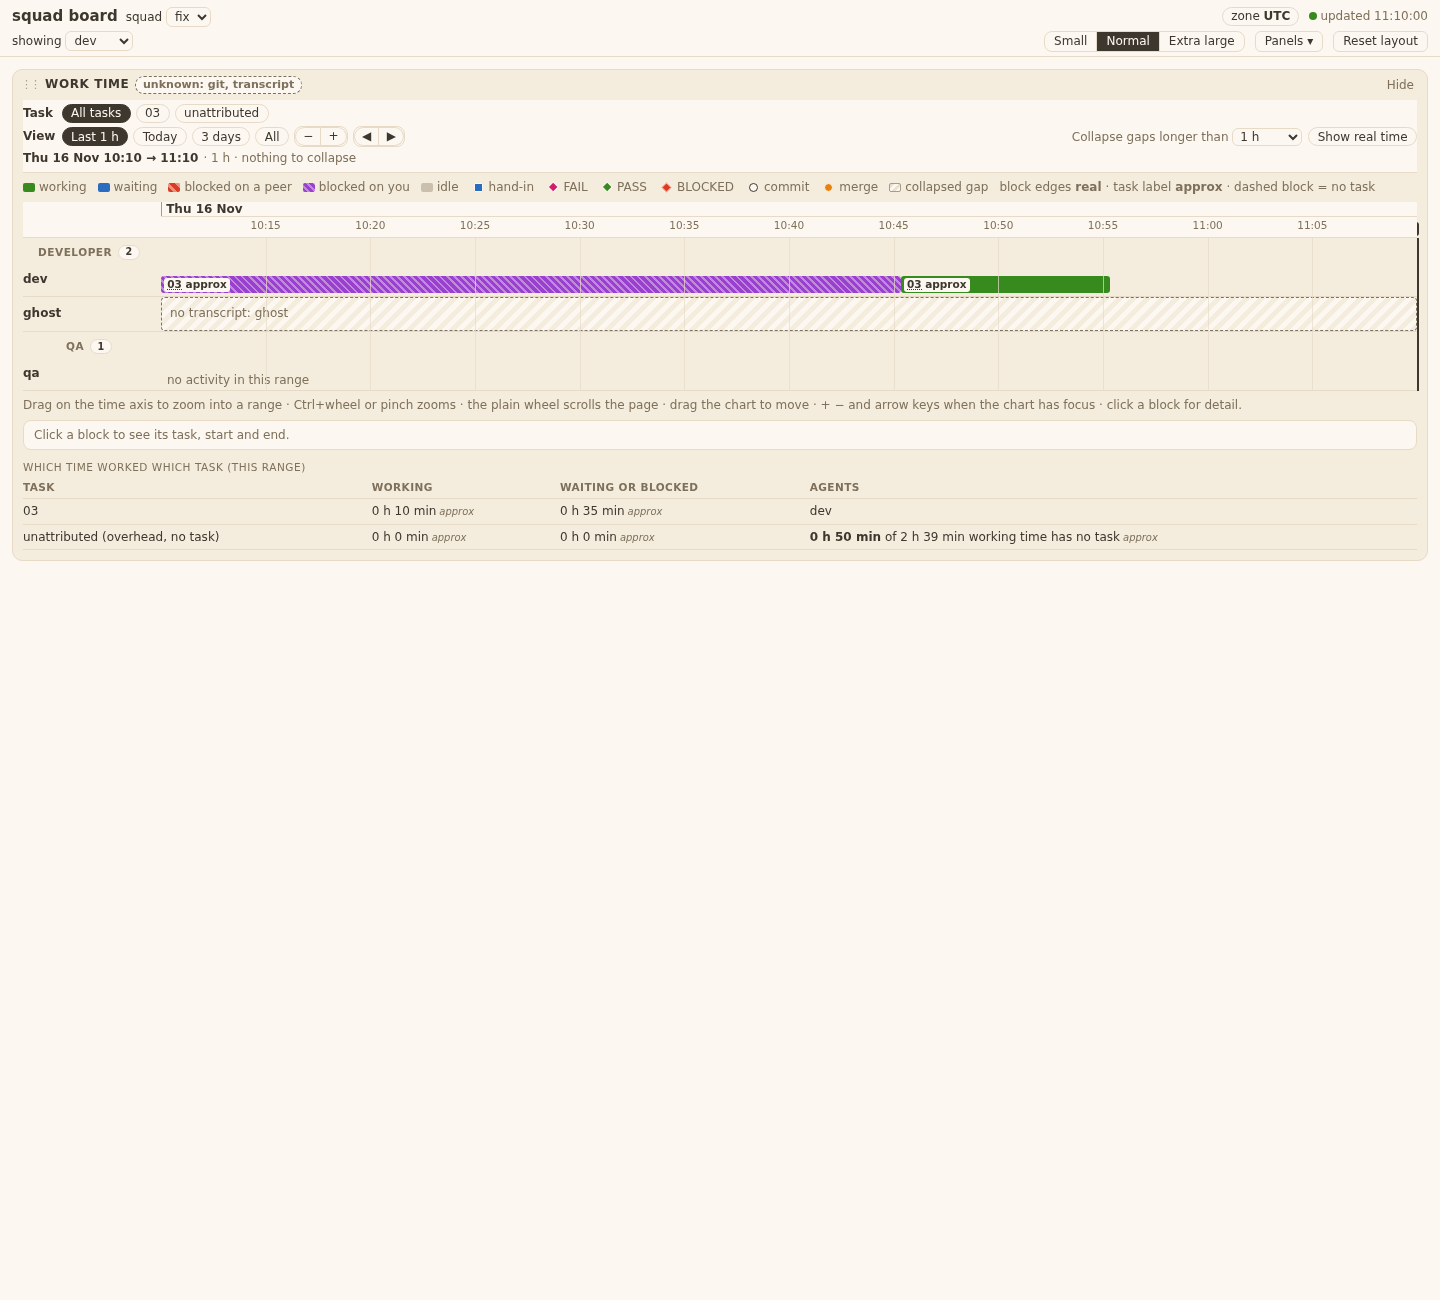
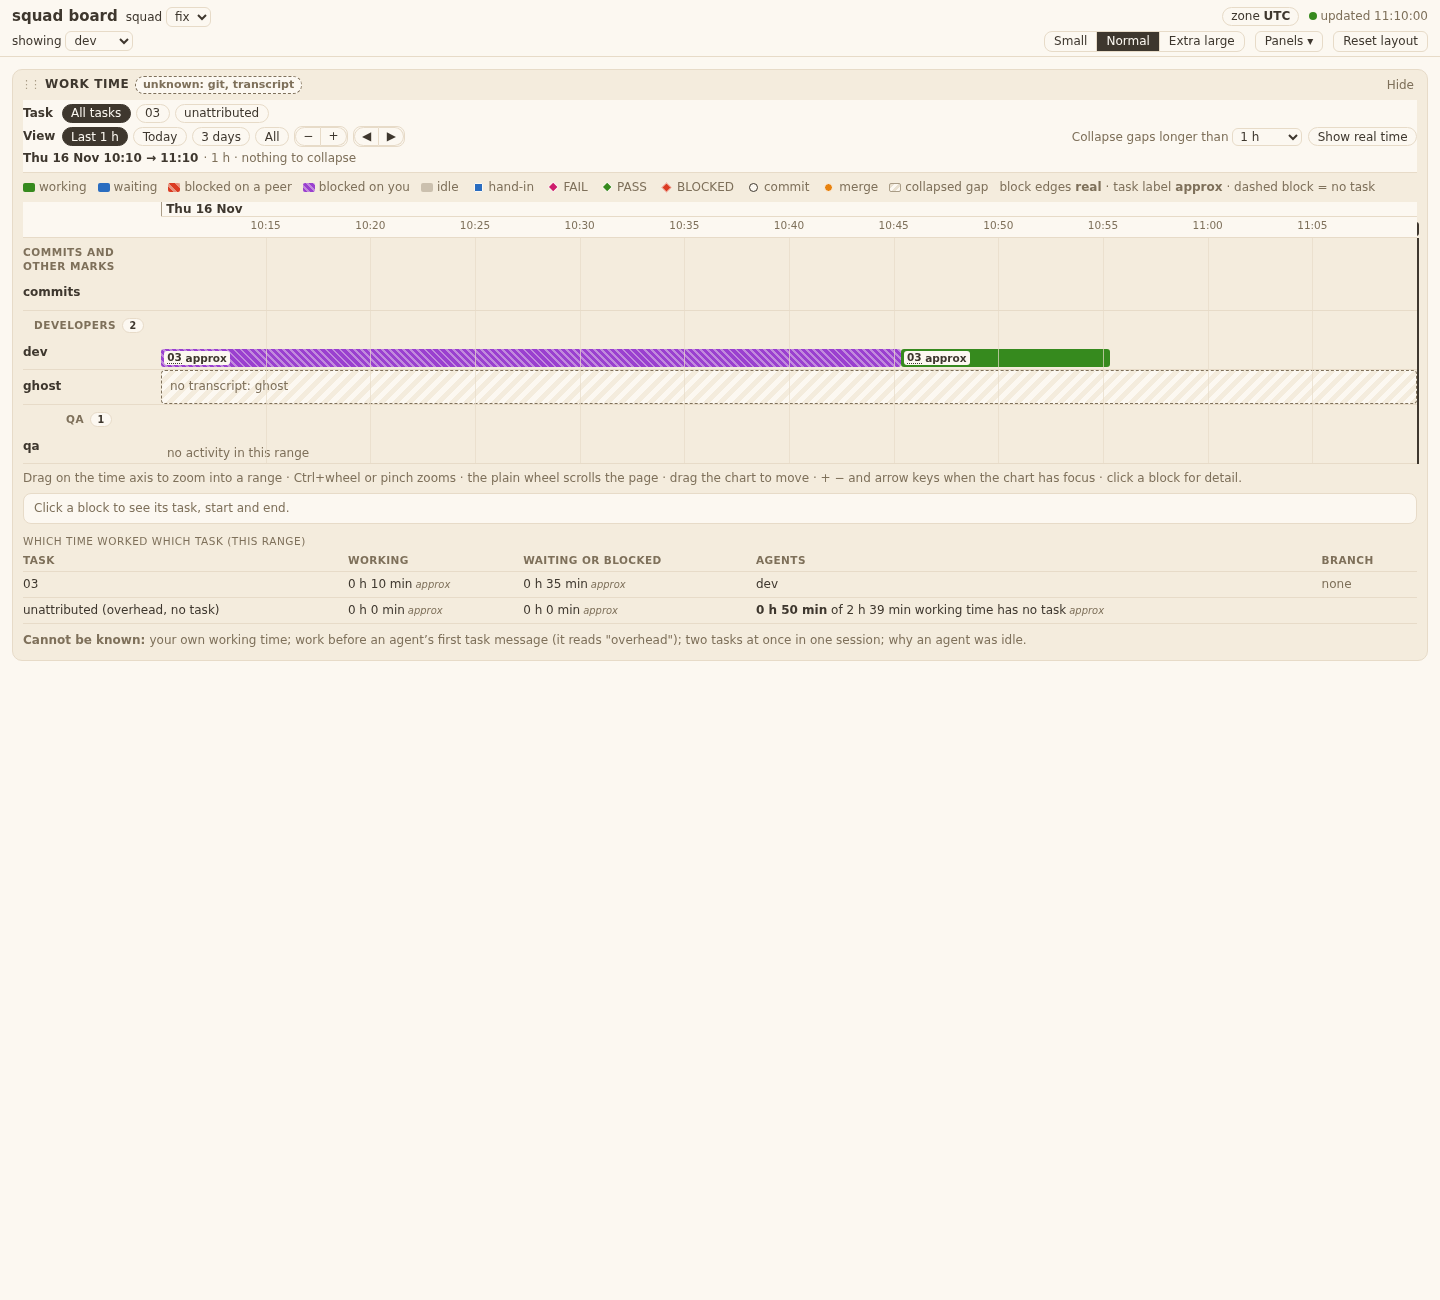
dashboard 16: design gaps (type groups, unknown state, branch column, cannot-be-known), approx from the flag, more tests, evidence

diff --git a/templates/board/timeline.js b/templates/board/timeline.js
@@ -595,6 +595,8 @@
     ".tl-tbl{width:100%;border-collapse:collapse}.tl-tbl th{text-align:left;font-size:.875em;text-transform:uppercase;letter-spacing:.04em;color:var(--muted);font-weight:600;padding:2px 8px 3px 0;border-bottom:1px solid var(--border);white-space:nowrap}",
     ".tl-tbl td{padding:4px 8px 4px 0;border-bottom:1px solid var(--border);vertical-align:top}.tl-tbl tr.r{cursor:pointer}.tl-tbl tr.r:hover td{background:var(--t-need3)}.tl-tbl tr.on td{background:var(--t-need2)}",
     ".tl .note{margin:6px 0;color:var(--muted)}",
+    ".tl .box{border:1px dashed var(--border);border-radius:8px;padding:8px 12px;text-align:center}.tl .box.warn{text-align:left;color:var(--ink)}",
+    ".tl .cannot{margin:8px 0 0;color:var(--muted)}",
     ".tl-wait{color:var(--muted);margin-left:auto}",
     ".sk{height:.92em;border-radius:4px;background:linear-gradient(90deg,var(--border),var(--bg),var(--border));background-size:200% 100%;animation:sk 1.2s linear infinite;margin:7px 0}@keyframes sk{to{background-position:-200% 0}}"
   ].join("\n");
@@ -607,6 +609,17 @@
     s.textContent = CSS;   /* a static literal: no data in it */
     root.document.head.appendChild(s);
   }
+
+  /* the lane groups of the design: Manager, Developers, QA ... (roles in the roster are dev, qa-whitebox, qa-blackbox ...) */
+  var TYPES = ["Manager", "BA", "Designer", "Architect", "Tech lead", "Team lead", "Developers", "QA"];
+  function typeOf(role) {
+    var r = String(role || "").toLowerCase();
+    if (r.indexOf("qa") === 0) return "QA";
+    if (r.indexOf("dev") === 0) return "Developers";
+    var m = { manager: "Manager", ba: "BA", designer: "Designer", architect: "Architect", "tech-lead": "Tech lead", "team-lead": "Team lead" }[r];
+    return m || (r ? r.charAt(0).toUpperCase() + r.slice(1) : "Agent");
+  }
+  T.typeOf = typeOf;
 
   var cur = null;   /* what the last draw used: {range, scale, lanes} */
   function scaleNow(r) {
@@ -685,7 +698,7 @@
   function blockTitle(a, r, tz) {
     var s = a.agent + (a.scope ? " · " + a.scope : "") + " · " + hhmm(r.start, tz) + "–" + hhmm(r.end, tz) + " (" + durLabel(r.seconds) + ") · " +
       (r.bucket === "blocked" ? (r.on === "PO" ? "blocked on you" : "blocked" + (r.on ? " on " + r.on : "")) : r.bucket) +
-      " · " + (r.task != null ? "task " + r.task + " (approx)" : "no task");
+      " · " + (r.task != null ? "task " + r.task + (r.approx ? " (approx)" : "") : "no task");
     return r.n > 1 ? s + " · " + r.n + " short pieces" : s;
   }
 
@@ -713,10 +726,11 @@
       b.style.left = pct(r.fx); b.style.width = pct(r.fw);
       b.title = blockTitle(a, r, tz);
       b.dataset.state = r.bucket; b.dataset.agent = a.agent; b.dataset.start = String(r.start); b.dataset.end = String(r.end);
-      if (r.task != null) { b.dataset.task = r.task; b.dataset.approx = "true"; }
+      if (r.task != null) b.dataset.task = r.task;
+      if (r.approx) b.dataset.approx = "true";
       if (r.task != null && r.w >= 64) {
         var lb = el("span", "lb"), u = el("u", null, r.task);
-        lb.appendChild(u); lb.appendChild(el("span", "ax", "\u00a0approx")); b.appendChild(lb);
+        lb.appendChild(u); if (r.approx) lb.appendChild(el("span", "ax", "\u00a0approx")); b.appendChild(lb);
       }
       b.addEventListener("click", function (e) {
         if (V.moved) { V.moved = false; return; }
@@ -763,11 +777,19 @@
     return d;
   }
 
+  function branchOf(task) {   /* ticket 15 leaves branch empty until M10: "none" */
+    var b = "";
+    V.agents.forEach(function (a) { a.pieces.forEach(function (p) { if (!b && p.task === task && p.branch) b = p.branch; }); });
+    if (!b) { var n = el("span", "muted", "none"); return n; }
+    var c = el("code", null, "\u2026/" + b.split("/").pop());
+    return c;
+  }
+
   function statsTable(sc) {
     var wrap = el("div"), st = taskStats(V.agents, sc);
     wrap.appendChild(el("h3", "tl-h", "Which time worked which task (this range)"));
     var tb = el("table", "tl-tbl"), hd = el("tr");
-    ["Task", "Working", "Waiting or blocked", "Agents"].forEach(function (x) { hd.appendChild(el("th", null, x)); });
+    ["Task", "Working", "Waiting or blocked", "Agents", "Branch"].forEach(function (x) { hd.appendChild(el("th", null, x)); });
     var th = el("thead"); th.appendChild(hd); tb.appendChild(th);
     var body = el("tbody");
     function tr(key, cells) {
@@ -778,14 +800,14 @@
     }
     function approx(t) { var c = el("span", "nw", t); c.appendChild(el("span", "ap", "approx")); return c; }
     Object.keys(st.by).filter(function (k) { return k !== ""; }).sort().forEach(function (k) {
-      var o = st.by[k]; tr(k, [k, approx(hm(o.work)), approx(hm(o.other)), Object.keys(o.agents).join(", ")]);
+      var o = st.by[k]; tr(k, [k, approx(hm(o.work)), approx(hm(o.other)), Object.keys(o.agents).join(", "), branchOf(k)]);
     });
     var u = st.by[""] || { work: 0, other: 0 };
     var un = el("span"), n = V.data ? V.data.unattributed : { hours: 0, minutes: 0 };
     un.appendChild(el("b", null, n.hours + " h " + n.minutes + " min"));
     un.appendChild(root.document.createTextNode(" of " + hm(V.data ? V.data.counted_working : st.working) + " working time has no task"));
     un.appendChild(el("span", "ap", "approx"));
-    tr("—", ["unattributed (overhead, no task)", approx(hm(u.work)), approx(hm(u.other)), un]);
+    tr("—", ["unattributed (overhead, no task)", approx(hm(u.work)), approx(hm(u.other)), un, ""]);
     tb.appendChild(body); wrap.appendChild(tb);
     return wrap;
   }
@@ -799,9 +821,25 @@
     body.appendChild(tl);
     if (V.state === "loading") { tl.appendChild(skeleton()); return; }
     if (V.state === "version") { tl.appendChild(el("p", "note", "unknown: board version")); return; }
-    if (V.state === "unknown") { tl.appendChild(el("p", "note", "unknown: " + ((V.unknown || []).join(", ") || "worktime"))); return; }
+    if (V.state === "unknown") {
+      var un = el("p", "note box warn"); un.appendChild(el("b", null, "unknown: " + ((V.unknown || []).join(", ") || "transcripts and git are not readable") + ". "));
+      un.appendChild(root.document.createTextNode("Lanes show \"no data\". Nothing is invented and nothing reads 0."));
+      tl.appendChild(un);
+      var ur = effective(), us = makeScale(ur, []), utz = zone();
+      tl.appendChild(toolbar(ur, us, utz)); tl.appendChild(legend());
+      var uc = el("div", "tl-chart"); uc.style.setProperty("--lw", "11em");
+      var uax = el("div", "tl-axis"), upl = el("div", "pl"), udays = el("div", "days"), uticks = el("div", "ticks"), uam = axisModel(us, utz, V.W);
+      uax.appendChild(el("div"));
+      uam.days.forEach(function (d) { var x = el("span", "dy", d.label); x.style.left = pct(d.x); x.style.width = pct(d.w); udays.appendChild(x); });
+      uam.ticks.forEach(function (t) { var x = el("span", null, t.label); x.style.left = pct(t.x); uticks.appendChild(x); });
+      upl.appendChild(udays); upl.appendChild(uticks); uax.appendChild(upl); uc.appendChild(uax);
+      var ur2 = el("div", "tl-row"); ur2.style.height = "3em"; ur2.appendChild(el("div", "lab"));
+      ur2.appendChild(el("div", "tl-trk nodata", "unknown: transcripts not readable. No time is invented."));
+      uc.appendChild(ur2); tl.appendChild(uc);
+      return;
+    }
     if (!V.agents.length) {
-      var em = el("p", "note"); em.appendChild(el("b", null, "No work time yet. ")); em.appendChild(root.document.createTextNode("No agent in this selection has a transcript."));
+      var em = el("p", "note box"); em.appendChild(el("b", null, "No work time yet. ")); em.appendChild(root.document.createTextNode("No agent in this selection has a transcript."));
       tl.appendChild(em); return;
     }
     var tz = zone(), r = effective(), all = [];
@@ -832,10 +870,14 @@
       chart.appendChild(laneRow({ agent: "commits", scope: "", note: "", pieces: [] }, sc, [], loose, tz, V.W, false));
     }
     var roles = [];
-    V.agents.forEach(function (a) { if (roles.indexOf(a.role) < 0) roles.push(a.role); });
+    V.agents.forEach(function (a) { var t = typeOf(a.role); if (roles.indexOf(t) < 0) roles.push(t); });
+    roles.sort(function (x, y) {
+      var i = TYPES.indexOf(x), j = TYPES.indexOf(y);
+      return (i < 0 ? 99 : i) - (j < 0 ? 99 : j);
+    });
     var hidden = 0;
     roles.forEach(function (role) {
-      var g = V.agents.filter(function (a) { return a.role === role; });
+      var g = V.agents.filter(function (a) { return typeOf(a.role) === role; });
       if (V.hl) g = g.filter(function (a) { var keep = !a.note && taskFilter(a.pieces, V.hl === "—" ? [null] : [V.hl]).length > 0; if (!keep && !a.note) hidden++; return keep || a.note; });
       if (!g.length) return;
       chart.appendChild(lab(role, g.length));
@@ -867,10 +909,18 @@
       var hn = el("p", "note", hidden + " lane" + (hidden === 1 ? "" : "s") + " hidden: no time on this task. ");
       var sb = el("button", "cp", "Show all lanes"); sb.type = "button"; sb.addEventListener("click", function () { T.setTask(null); }); hn.appendChild(sb); tl.appendChild(hn);
     }
+    var anyIn = V.agents.some(function (a) { return a.pieces.some(function (p) { return p.end > r.from && p.start < r.to; }); });
+    if (!anyIn) {
+      var ne = el("p", "note box"); ne.appendChild(el("b", null, "No agent did anything in this range. "));
+      ne.appendChild(root.document.createTextNode("Zoom out, or pick \"All\".")); tl.appendChild(ne);
+    }
     var hint = el("p", "tl-hint muted", "Drag on the time axis to zoom into a range · Ctrl+wheel or pinch zooms · the plain wheel scrolls the page · drag the chart to move · + − and arrow keys when the chart has focus · click a block for detail.");
     tl.appendChild(hint);
     tl.appendChild(detail(tz));
     tl.appendChild(statsTable(sc));
+    var cb = el("p", "cannot"); cb.appendChild(el("b", null, "Cannot be known: "));
+    cb.appendChild(root.document.createTextNode("your own working time; work before an agent\u2019s first task message (it reads \"overhead\"); two tasks at once in one session; why an agent was idle."));
+    tl.appendChild(cb);
     cur = { range: r, scale: sc, chart: chart, ov: ov, axis: axis, hit: hit, selr: selr, tl: tl };
     bind(cur);
     fit(cur);

diff --git a/tests/test_squadboard_timeline.py b/tests/test_squadboard_timeline.py
@@ -4,6 +4,7 @@ answer of `squadboard_worktime.read` (ticket 15) on pieces built by its own test
 Tests are named for the business AC (T16.ACn) or technical AC (T16.TAn)."""
 import html
 import json
+import os
 import re
 import subprocess
 import sys
@@ -45,6 +46,8 @@ const fetchStub=async(url,opt)=>{
   if(url.startsWith('/api/squads'))return J({data:SQ});
   if(url.startsWith('/api/ui'))return J({data:{ui:null,status:'ok'}});
   if(url.startsWith('/api/worktime')){
+    if(window.__v2)return J({schema_version:2,data:null});
+    if(window.__unk)return J({data:null,unknown:['transcript']});
     const q=new URLSearchParams(url.split('?')[1]);const f=q.get('from'),t=q.get('to');
     if(slow&&f===String(slow.from))await sleep(slow.ms);
     const d=Object.assign({},payload.data,{from:f==null?payload.data.from:+f,to:+t});
@@ -67,14 +70,14 @@ SCRIPTS = ('<script src="file://%(tpl)s/board.js"></script><script src="file://%
            '<script src="file://%(tpl)s/timeline.js"></script>')
 
 
-def run_page(body, real, scripts=SCRIPTS):
+def run_page(body, real, scripts=SCRIPTS, tz=None):
     with tempfile.TemporaryDirectory() as d:
         page = Path(d) / "page.html"
         page.write_text(HEAD % {"tpl": str(TPL), "real": json.dumps(real), "body": body, "scripts": scripts % {"tpl": str(TPL)}},
                         encoding="utf-8")
         r = subprocess.run([CHROME, "--headless", "--disable-gpu", "--no-sandbox", "--allow-file-access-from-files",
                             "--virtual-time-budget=20000", "--window-size=1440,900", "--dump-dom", "file://" + str(page)],
-                           capture_output=True, text=True, timeout=120)
+                           capture_output=True, text=True, timeout=120, env=dict(os.environ, TZ=tz) if tz else None)
     assert r.returncode == 0, r.stderr[-500:]
     m = re.search(r'<pre id="out">(.*?)</pre>', r.stdout, re.S)
     assert m, r.stdout[-800:]
@@ -142,7 +145,11 @@ def evil():
     return read_api(c)
 
 
-def real_long_gap():
+def real_normal():
+    return real_long_gap("normal.jsonl", "wt-dev-normal", "1792508000", "1792508100")
+
+
+def real_long_gap(fixture="long-gap.jsonl", agent="wt-dev-long", lo="1792508000", hi="1792552000"):
     """The real 11.2 h `long-gap` sample of ticket 15 through its own reader."""
     import os
     import shutil
@@ -151,8 +158,8 @@ def real_long_gap():
         with mock.patch.dict(os.environ, {"CLAUDE_CONFIG_DIR": str(Path(tmp) / "cfg")}):
             wt._CACHE.clear()
             wt._PATHS.clear()
-            home, _ = tw.write_squad(tmp, "long-gap.jsonl", "sess2", "wt-dev-long")
-            r = wt.read(tw.sel_for(tmp, home, **{"from": "1792508000", "to": "1792552000", "gap_min": "60"}))
+            home, _ = tw.write_squad(tmp, fixture, "sess2", agent)
+            r = wt.read(tw.sel_for(tmp, home, **{"from": lo, "to": hi, "gap_min": "60"}))
         return {"schema_version": 1, "data": r["data"], "quality": r["quality"], "unknown": r["unknown"]}
     finally:
         shutil.rmtree(tmp, ignore_errors=True)
@@ -190,7 +197,11 @@ const l0=lanes[0];
 o.perf={ms:ms,in:2000,out:l0.length,sec:l0.reduce((s,r)=>s+r.seconds,0),sum:4000};
 const sc=T.makeScale({from:0,to:1000},[{start:400,end:600,kind:'idle',label:'x',seconds:200}]);
 o.scale=[sc.breaks.length,sc.x(0),sc.x(1000),sc.tAt(sc.x(300))];
-out(o);""", {"wt": rich(), "dst": dst()})
+const lg=R.long.data.agents.find(a=>a.agent==='wt-dev-long').pieces, nm=R.normal.data.agents.find(a=>a.agent==='wt-dev-normal').pieces;
+const cl=T.collapse(lg,60,false,'UTC');
+o.real2={breaks:cl.breaks.map(b=>b.seconds),filter:T.taskFilter(nm,['03']).length===nm.length,
+ secs:T.layoutLanes(nm,{from:nm[0].start,to:nm[nm.length-1].end},800,[]).reduce((s,r)=>s+r.seconds,0),want:nm.reduce((s,p)=>s+p.end-p.start,0)};
+out(o);""", {"wt": rich(), "dst": dst(), "long": real_long_gap(), "normal": real_normal()})
 
     def test_T16_AC8_TA2_setting_limits_clamp_and_strictly_longer(self):
         c = {x["n"]: x["breaks"] for x in self.res["collapse"]}
@@ -226,9 +237,17 @@ out(o);""", {"wt": rich(), "dst": dst()})
         self.assertTrue(0 < f[0] < f[4])
         self.assertEqual((f[1], f[2], f[3]), (True, True, 0))
 
+    def test_T16_TA1_the_two_real_samples_of_ticket_15(self):
+        r = self.res["real2"]
+        self.assertEqual(len(r["breaks"]), 1)
+        self.assertGreater(r["breaks"][0], 11 * 3600)
+        self.assertTrue(r["filter"])
+        self.assertEqual(r["secs"], r["want"])
+
     def test_T16_TA7_layout_is_fast_and_merging_keeps_the_time(self):
         p = self.res["perf"]
-        self.assertLess(p["ms"], 200)
+        self.assertGreater(p["ms"], 0)   # performance.now() is not frozen by the harness
+        self.assertLess(p["ms"], 200, p)
         self.assertLess(p["out"], p["in"])
         self.assertEqual(p["sec"], p["sum"])
 
@@ -316,6 +335,7 @@ out(o);""", {"wt": rich(), "dst": dst(), "now": NOW})
         self.assertEqual(sorted(r["rows"]), ["dev", "ghost", "qa"])
         self.assertTrue(r["b03"]["n"] > 0 and r["b03"]["approx"])
         self.assertTrue({"working", "waiting"} <= set(r["b03"]["states"]))
+        self.assertEqual([g.split(" ")[0] for g in r["groups"]], ["Developers", "QA"])
         self.assertRegex(r["titles"][0], r"^dev · .* · \d\d:\d\d–\d\d:\d\d \(.*\) · working · task 03 \(approx\)$")
         self.assertIn("no transcript: ghost", r["ghost"])
         self.assertRegex(r["detail"], r"Task\s*03")
@@ -385,6 +405,23 @@ out(o);""", {"wt": rich(), "dst": dst(), "now": NOW})
 
 @unittest.skipUnless(CHROME, "no Chrome/Chromium on this machine: browser test skipped")
 class Safety(unittest.TestCase):
+    def test_T16_AC9_TA2_the_page_reads_its_own_zone_across_a_clock_change(self):
+        for z in ("Europe/Berlin", "America/New_York"):
+            r = run_page("""
+const z=BOARD.readZone(),dp=R.dst.data.agents[0].pieces;
+out({z:z,l:T.collapse(dp,60,false,z).breaks.map(b=>b.label)});""", {"wt": rich(), "dst": dst(), "now": NOW}, tz=z)
+            self.assertEqual((r["z"], r["l"]), (z, ["idle · 3 h"]))
+
+    def test_T16_TU8_a_zoom_answered_with_another_version_or_nothing_shows_unknown(self):
+        r = run_page("""
+await startPage();window.__v2=true;await T.zoomAt(.5,.5);await sleep(100);
+const v=$('.tl .note').textContent;window.__v2=false;window.__unk=true;await T.zoomAt(.5,.5);await sleep(100);
+out({v:v,u:$('.tl .note').textContent,nodata:($('.tl-trk.nodata')||{}).textContent,bar:!!$('.tl-bar')});""", {"wt": rich(), "dst": {}, "now": NOW})
+        self.assertEqual(r["v"], "unknown: board version")
+        self.assertIn("unknown: transcript", r["u"])
+        self.assertIn("No time is invented", r["nodata"])
+        self.assertTrue(r["bar"])
+
     def test_T16_TA4_untrusted_names_stay_text(self):
         r = run_page("""
 payload=R.evil;await startPage();

diff --git a/.scratch/dashboard/issues/16-work-time-page/evidence.md b/.scratch/dashboard/issues/16-work-time-page/evidence.md
@@ -1,7 +1,7 @@
 # Evidence 16 work time page
 
 ## Behaviour
-New panel `templates/board/timeline.js` (id `worktime`, "Work time", swimlanes). Rules are plain functions on `BOARD.TIMELINE`. Tests: `tests/test_squadboard_timeline.py` (22 tests, id in each name), headless Chrome, data from the real `/api/worktime` reader of ticket 15 (`squadboard_worktime.read`) on its own test helpers. Screenshots are the page in that harness (scope `dev`, fake clock, zone UTC).
+New panel `templates/board/timeline.js` (id `worktime`, "Work time", swimlanes). Rules are plain functions on `BOARD.TIMELINE`. Tests: `tests/test_squadboard_timeline.py` (25 tests, id in each name), headless Chrome, data from the real `/api/worktime` reader of ticket 15 (`squadboard_worktime.read`) on its own test helpers. Screenshots are the page in that harness (scope `dev`, fake clock, zone UTC).
 
 | AC | What I saw |
 |---|---|
@@ -31,10 +31,20 @@ New panel `templates/board/timeline.js` (id `worktime`, "Work time", swimlanes).
 
 ![Empty state](img/swim-empty.png)
 
+![Unknown: a zoom answered with no data](img/swim-unknown.png)
+
 States: loading (skeleton), empty ("No work time yet."), unknown / board version (the board's own note; the panel's note for its own requests), lane with no activity in range ("no activity in this range"), odd piece (no `end`, bucket outside the four) drawn dashed as "unknown" and logged to the console once per kind.
 
 Technical points: one timer (the board's 5 s poll reads the panel's route, which follows the current range); a zoom is its own GET with a request id, an older answer arriving last is dropped (test). The panel redraws only when the data changes. Writes: only `PUT /api/ui` (key `timeline`: idle break, preset or range), with the board's token; the test records every call of a scripted session. Layout of 20 agents x 2000 pieces: under 200 ms; sub-pixel pieces merge for drawing, the sum of seconds is kept (test).
 
-Files outside the ticket list (needed): `templates/board/index.html` (one `<script>` line), `templates/board/board.js` (two hook calls, `snapshot` and `applySaved`, so the panel's keys are saved), `tests/test_squadboard_page.py` (the file-list test names `timeline.js`). Commit marks carry no agent in ticket 15's data, so they sit in their own lane "Commits and other marks". Not built: artifact marks and "blocked on you, open now" (not in the ticket or the data).
+## Differences from the design (approved by the Manager, FINAL 16)
+1. Commit marks carry no agent in ticket 15's data, so they sit in their own lane "Commits and other marks" (the design draws them in the author's lane). Visible in the first screen above (circles).
+2. No "blocked on you, open now" state: `open` is always false in ticket 15's data.
+3. No artifact marks (cut in architecture 2a).
+4. Hand-in, BLOCKED and merge marks have glyphs of their own (the design draws only commit, PASS, FAIL); each has a legend entry.
+5. Lane groups follow the design (Manager, Developers, QA ...), mapped from the roster role.
+6. Branch column reads "none" until M10 fills `branch`.
+
+Touched files beyond the ticket list (approved): `templates/board/index.html` (one script line), `templates/board/board.js` (exactly two hook calls: `snapshot`, `applySaved`), `tests/test_squadboard_page.py` (file-list test names `timeline.js`).
 
 Live run (real server, this scope): `/api/worktime` gave 24 agents, 4511 pieces, 70 marks, unattributed `7 h 22 min`. The page drew 18 developer lanes plus the other roles, a "night · 5 h 30 min" break, commits in their own lane, no console error. Server stopped after the run.
